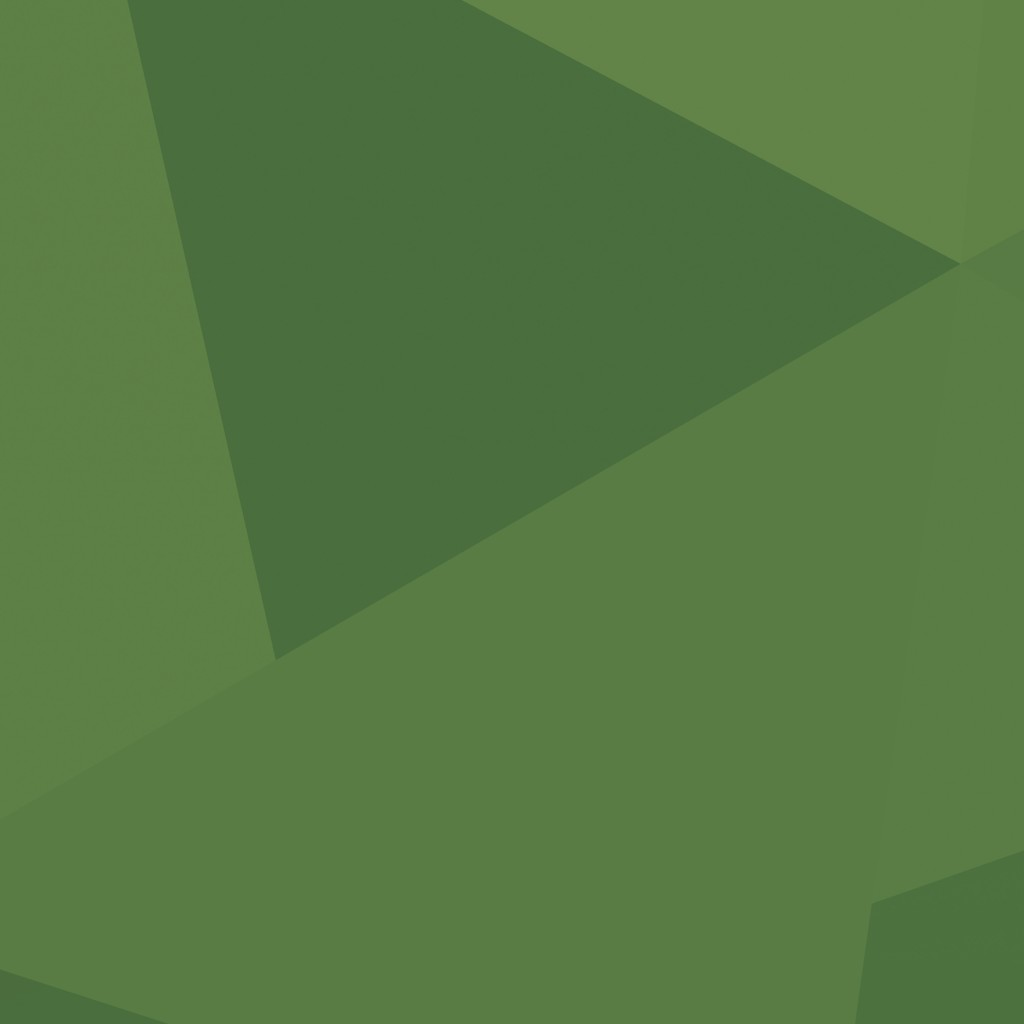
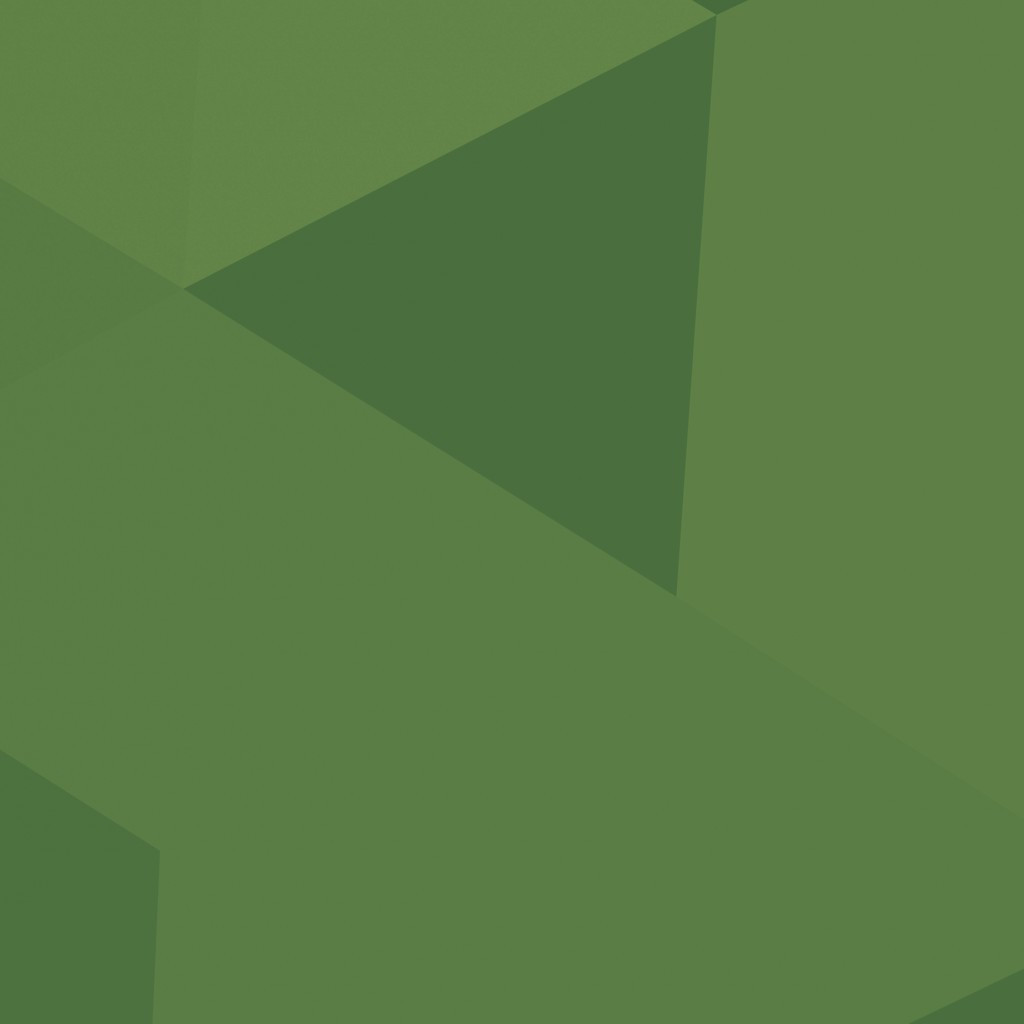
Fixed issue with env update and updated meadow env

Changed region(s): [[0.1875, 0.0, 0.5938, 0.2812], [0.6875, 0.0, 0.7188, 0.0312]]

diff --git a/app/src/common/shared/org/mozilla/vrbrowser/ui/DeveloperOptionsWidget.java b/app/src/common/shared/org/mozilla/vrbrowser/ui/DeveloperOptionsWidget.java
@@ -48,6 +48,7 @@ public class DeveloperOptionsWidget extends UIWidget {
     private RadioGroup mEnvsRadio;
     private RadioButton mMeadowRadio;
     private RadioButton mCaveRadio;
+    private RadioButton mVoidRadio;
     private TextView mDensityButton;
     private TextView mDensityText;
     private DeveloperOptionsEditText mDensityEdit;
@@ -129,6 +130,8 @@ public class DeveloperOptionsWidget extends UIWidget {
         mMeadowRadio.setSoundEffectsEnabled(false);
         mCaveRadio = findViewById(R.id.radioCave);
         mCaveRadio.setSoundEffectsEnabled(false);
+        mVoidRadio = findViewById(R.id.radioVoid);
+        mVoidRadio.setSoundEffectsEnabled(false);
         mEnvsRadio.setOnCheckedChangeListener(mEnvsListener);
         setEnv(env, false);
 
@@ -631,6 +634,9 @@ public class DeveloperOptionsWidget extends UIWidget {
             case  R.id.radioCave:
                 env = "cave";
                 break;
+            case  R.id.radioVoid:
+                env = "void";
+                break;
             default:
                 env = "meadow";
         }
@@ -641,13 +647,20 @@ public class DeveloperOptionsWidget extends UIWidget {
     private void setEnv(String env, boolean doApply) {
         mEnvsRadio.setOnCheckedChangeListener(null);
 
-        if (env == "meadow") {
+        if (env.equalsIgnoreCase("meadow")) {
             mCaveRadio.setChecked(false);
             mMeadowRadio.setChecked(true);
+            mVoidRadio.setChecked(false);
 
-        } else if (env == "cave") {
+        } else if (env.equalsIgnoreCase("cave")) {
             mCaveRadio.setChecked(true);
             mMeadowRadio.setChecked(false);
+            mVoidRadio.setChecked(false);
+
+        } else if (env.equalsIgnoreCase("void")) {
+            mCaveRadio.setChecked(false);
+            mMeadowRadio.setChecked(false);
+            mVoidRadio.setChecked(true);
         }
 
         mEnvsRadio.setOnCheckedChangeListener(mEnvsListener);
